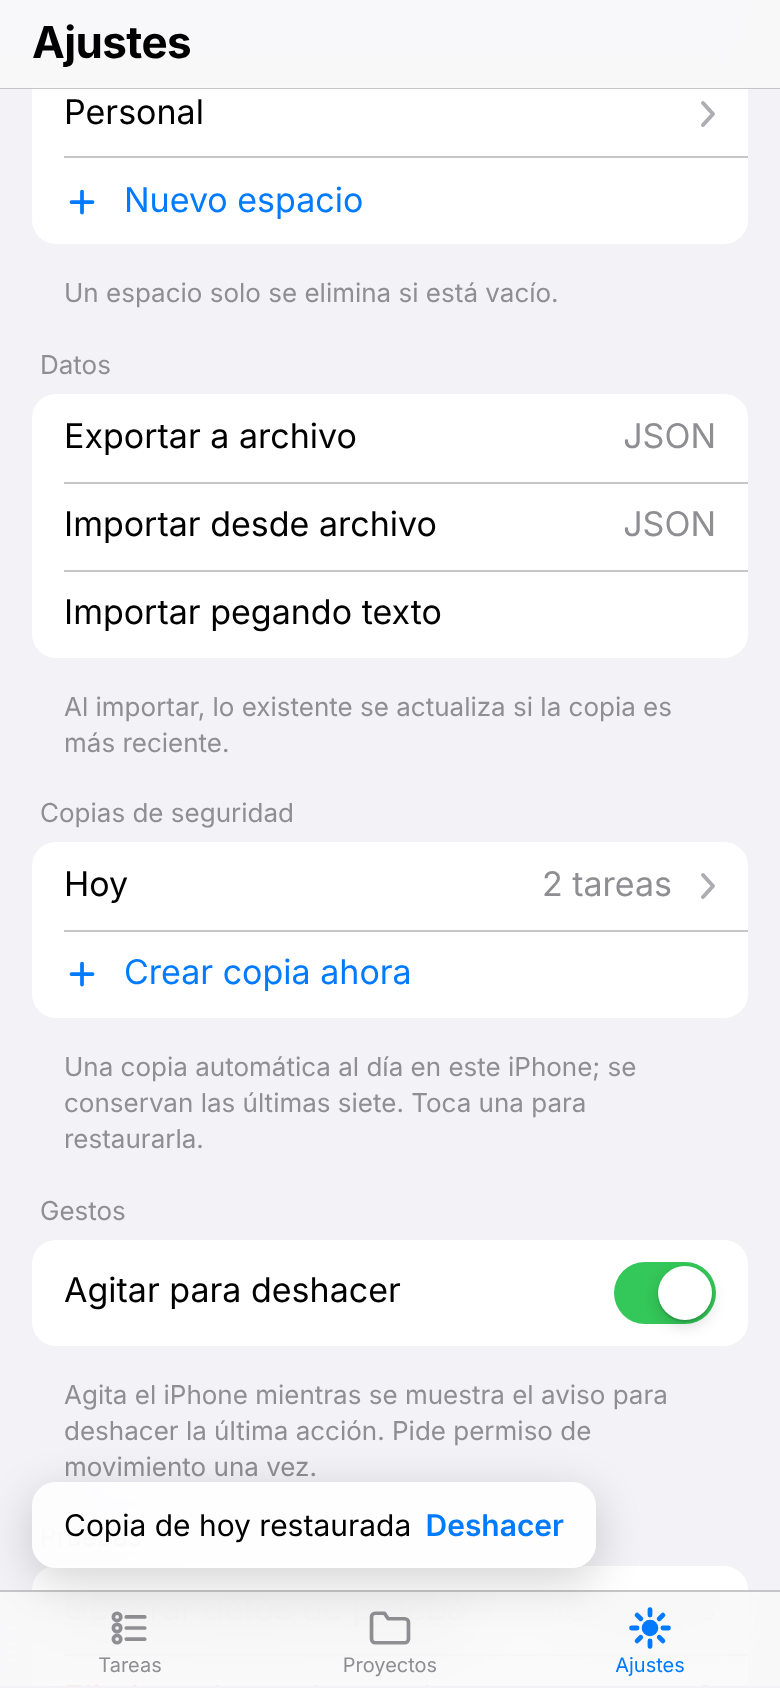
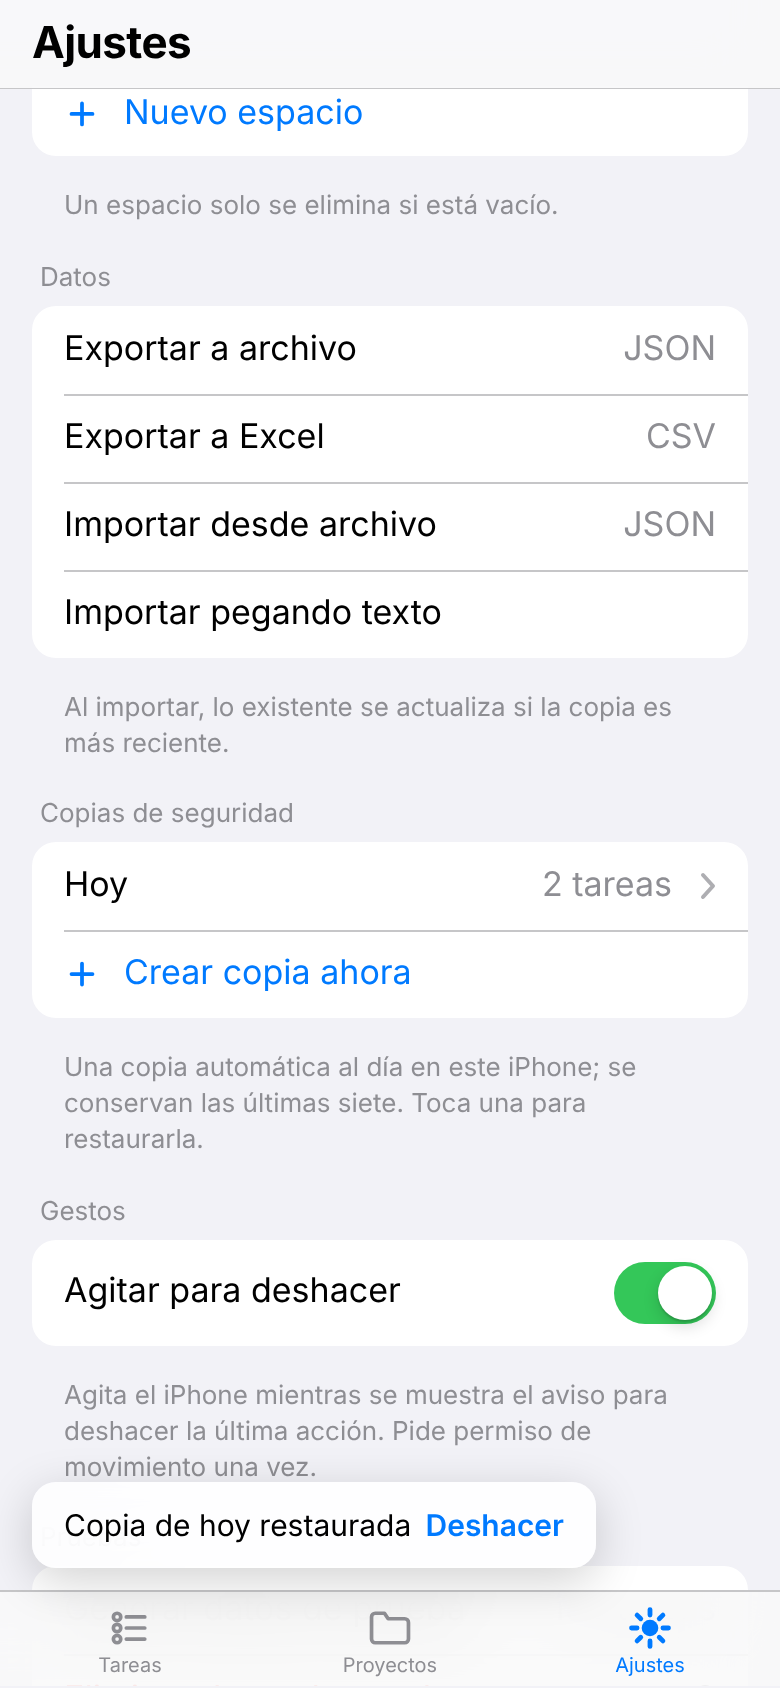
Project filter chips, close the day, plan undated tasks and CSV export
Claude-Session: https://claude.ai/code/session_013DPb63Skv8hBDWtuNgygHP

diff --git a/index.html b/index.html
@@ -201,6 +201,14 @@ input,textarea,select{font-size:max(16px,1rem);} /* under 16px Safari zooms on f
 .switch.on{background:var(--green);}
 .switch.on::after{transform:translateX(20px);}
 .seg.mini{margin:-4px 0 12px;padding:2px;}
+.pchips{display:flex;gap:8px;overflow-x:auto;margin:-4px -16px 12px;padding:0 16px 2px;scrollbar-width:none;}
+.pchips::-webkit-scrollbar{display:none;}
+.pchips .chip{height:30px;font-size:0.824rem;}
+.pchips .chip .dot{width:8px;height:8px;border-radius:50%;}
+.pchips .chip.on{color:#fff;}
+.plan-title{font-size:1.06rem;font-weight:600;text-align:center;margin:2px 0 10px;line-height:1.3;}
+.closeday{display:flex;align-items:center;justify-content:center;gap:8px;width:100%;margin-top:10px;padding:10px 0 2px;border-top:.5px solid var(--sep);color:var(--blue);font-weight:600;font-size:0.882rem;}
+.closeday svg{width:16px;height:16px;}
 .seg.mini button{height:24px;font-size:0.706rem;}
 .selbox{flex:none;width:22px;height:22px;border-radius:50%;border:1.5px solid var(--ink3);display:flex;align-items:center;justify-content:center;transition:background .15s,border-color .15s;}
 .selbox svg{width:12px;height:12px;color:#fff;opacity:0;}
@@ -325,7 +333,7 @@ input,textarea,select{font-size:max(16px,1rem);} /* under 16px Safari zooms on f
 
 <script>
 'use strict';
-const APP_VERSION = '0.11.0';
+const APP_VERSION = '0.12.0';
 let pendingSW = null; // service worker installed and waiting to take over
 
 /* ---------- Log: errors and app events, kept in localStorage for copy-and-paste debugging ---------- */
@@ -466,7 +474,7 @@ function doneList(projectId){
 }
 
 /* ---------- UI state ---------- */
-const UI = { tab:'tareas', query:'', stack:[], scroll:{}, sumFilter:null, summaryFirst:false, searchDone:false, select:null };
+const UI = { tab:'tareas', query:'', stack:[], scroll:{}, sumFilter:null, summaryFirst:false, searchDone:false, select:null, projFilter:null };
 
 /* ---------- Toast with undo ---------- */
 let toastTimer=null, undoFn=null;
@@ -608,6 +616,7 @@ function summaryHTML(){
   const soon = spaceTasks().filter(x=>x.status==='pending'&&x.reminder).map(x=>({x,d:new Date(x.reminder).getTime()-Date.now()})).filter(o=>o.d>-5*6e4&&o.d<2*36e5).sort((a,b)=>a.d-b.d)[0];
   return '<section class="summary'+(summaryCollapsed(hoy.length)?' collapsed':'')+'"><div class="summary-head"><h3>Resumen del día</h3><button data-act="toggleSummary" aria-label="Plegar">'+I.chevD+'</button></div>'+
    '<div class="summary-body"><div class="nums"><button class="num" data-sum="all"><b>'+deHoy+'</b><span>para hoy</span></button><button class="num'+(carried?' orange':'')+(UI.sumFilter==='carried'?' on':'')+'" data-sum="carried"><b>'+carried+'</b><span>aplazadas</span></button><button class="num'+(prio?' red':'')+(UI.sumFilter==='high'?' on':'')+'" data-sum="high"><b>'+prio+'</b><span>prioritarias</span></button></div>'+
+   (hoy.length&&new Date().getHours()>=18?'<button class="closeday" data-act="closeDay">'+I.cal+'<span>Pasar lo pendiente a mañana ('+hoy.length+')</span></button>':'')+
    (!hoy.length&&doneToday?'<div class="alldone">'+I.check+'<span>Todo hecho por hoy: '+doneToday+(doneToday===1?' tarea completada':' tareas completadas')+'</span></div>':'')+
    ((first.length||soon)?'<div class="first">'+(first.length?'<h4>Lo primero</h4>'+first.map(x=>rowHTML(x,{simple:true})).join(''):'')+
    (soon?'<div class="soon"'+(first.length?'':' style="border-top:0;padding-top:0"')+'>'+I.bell+'<span>Recordatorio a las '+fmtTime(soon.x.reminder)+': '+esc(soon.x.title)+'</span></div>':'')+'</div>':'')+'</div></section>';
@@ -619,6 +628,7 @@ function listHTML(filter, projectId){
   let list = pendingFor(filter, projectId, UI.query);
   const root = projectId===undefined;
   if(root && filter==='hoy' && !UI.query && UI.sumFilter) list = list.filter(x=> UI.sumFilter==='carried' ? x.carried : x.priority==='high');
+  if(root && !UI.query && UI.projFilter!==null) list = list.filter(x=> UI.projFilter==='none' ? !x.projectId : x.projectId===UI.projFilter);
   const done = doneList(projectId);
   const addBtn = '<button class="btn-link" data-act="add"'+(projectId!==undefined?' data-project="'+(projectId||'')+'"':'')+'>Añadir tarea</button>';
   let h='';
@@ -626,6 +636,7 @@ function listHTML(filter, projectId){
     let title, sub, acts;
     if(UI.query){ title='Sin resultados'; sub='Prueba con otra palabra'; acts='<button class="btn-link" data-act="clearSearch">Borrar búsqueda</button>'; }
     else if(root && filter==='hoy' && UI.sumFilter){ title=UI.sumFilter==='carried'?'Sin aplazadas':'Sin prioritarias'; sub='Hoy no hay ninguna'; acts='<button class="btn-link" data-sum="all">Quitar filtro</button>'; }
+    else if(root && UI.projFilter!==null){ const pf=UI.projFilter==='none'?null:proj(UI.projFilter); title='Nada '+(pf?'de '+esc(pf.name):'sin proyecto'); sub=filter==='hoy'?'Hoy no hay ninguna':'No hay pendientes'; acts='<button class="btn-link" data-pf="">Quitar filtro</button>'; }
     else if(filter==='hoy'){ title='Nada para hoy'; sub='Nada pendiente con fecha de hoy'; acts='<button class="btn-link" data-filter="todas">Ver todas</button>'+addBtn; }
     else { title='Sin tareas pendientes'; sub='Toca + o añade una desde aquí'; acts=addBtn; }
     h += '<div class="empty">'+I.inbox+'<b>'+title+'</b>'+sub+'<div class="acts">'+acts+'</div></div>';
@@ -636,7 +647,7 @@ function listHTML(filter, projectId){
     ps.forEach(p=>{ if(by[p.id]) h += '<div class="group-title"><span class="dot" style="display:inline-block;width:8px;height:8px;border-radius:50%;background:'+p.color+';margin-right:6px;vertical-align:1px"></span>'+esc(p.name)+' <span style="color:var(--ink3)">'+by[p.id].length+'</span></div><div class="group">'+by[p.id].map(x=>rowHTML(x)).join('')+'</div>'; });
     if(by.none) h += '<div class="group-title">Sin proyecto <span style="color:var(--ink3)">'+by.none.length+'</span></div><div class="group">'+by.none.map(x=>rowHTML(x)).join('')+'</div>'; }
   else if(filter==='todas'){ const t=todayStr(); const by={}; list.forEach(x=>{ (by[dateBucket(x,t)]=by[dateBucket(x,t)]||[]).push(x); });
-    BUCKETS.forEach(([k,label])=>{ if(by[k]) h += '<div class="group-title">'+label+'</div><div class="group">'+by[k].map(x=>rowHTML(x)).join('')+'</div>'; }); }
+    BUCKETS.forEach(([k,label])=>{ if(by[k]) h += '<div class="group-title" style="display:flex;justify-content:space-between;align-items:center"><span>'+label+'</span>'+(k==='none'&&root&&!UI.select?'<button class="btn-link" data-act="plan" style="font-size:0.765rem;font-weight:600">Planificar ('+by[k].length+')</button>':'')+'</div><div class="group">'+by[k].map(x=>rowHTML(x)).join('')+'</div>'; }); }
   else if(filter==='hoy' && root && list.some(x=>x.carried) && list.some(x=>!x.carried)){ const c=list.filter(x=>x.carried), d=list.filter(x=>!x.carried); h += '<div class="group-title">Aplazadas</div><div class="group">'+c.map(x=>rowHTML(x)).join('')+'</div><div class="group-title">Hoy</div><div class="group">'+d.map(x=>rowHTML(x)).join('')+'</div>'; }
   else h += '<div class="group">'+list.map(x=>rowHTML(x)).join('')+'</div>';
   if(root && filter==='hoy' && !UI.query && !UI.sumFilter){ const tm=pendingFor('todas').filter(x=>x.date===addDays(todayStr(),1)).length; if(tm) h += '<button class="preview" data-filter="todas"><span>Mañana: '+tm+(tm===1?' tarea':' tareas')+'</span>'+I.chev+'</button>'; }
@@ -655,6 +666,7 @@ function viewTareas(){
    '<div class="scroll">'+(f==='hoy'&&!UI.query?summaryHTML():'')+
    '<div class="searchbar"><div class="search">'+I.search+'<input type="search" placeholder="Buscar" value="'+esc(UI.query)+'" data-role="search" autocomplete="off"></div>'+(UI.query?'<button class="cancel" data-act="clearSearch">Cancelar</button>':'')+'</div>'+
    (UI.query?'':'<div class="seg"><button data-filter="hoy" class="'+(f==='hoy'?'on':'')+'">Hoy<span class="n">'+nHoy+'</span></button><button data-filter="todas" class="'+(f==='todas'?'on':'')+'">Todas<span class="n">'+nTodas+'</span></button></div>')+
+   (!UI.query&&activeProjects().length?'<div class="pchips">'+activeProjects().map(p=>'<button class="chip'+(UI.projFilter===p.id?' on':'')+'" data-pf="'+p.id+'"'+(UI.projFilter===p.id?' style="background:'+p.color+'"':'')+'><span class="dot" style="background:'+(UI.projFilter===p.id?'#fff':p.color)+'"></span>'+esc(p.name)+'</button>').join('')+'<button class="chip'+(UI.projFilter==='none'?' on':'')+'" data-pf="none"><span class="dot" style="background:'+(UI.projFilter==='none'?'#fff':'var(--ink3)')+'"></span>Sin proyecto</button></div>':'')+
    (!UI.query&&f==='todas'&&nTodas?'<div class="seg mini"><button data-group="date" class="'+(DB.settings.allGroup!=='project'?'on':'')+'">Por fecha</button><button data-group="project" class="'+(DB.settings.allGroup==='project'?'on':'')+'">Por proyecto</button></div>':'')+
    listHTML(UI.query?'todas':f)+'</div>'+
    '<button class="fab" data-act="add" aria-label="Añadir tarea">'+I.plus+'</button>';
@@ -688,7 +700,7 @@ function viewAjustes(){
    '<div class="footnote">Los datos viven en este iPhone hasta activar la sincronización.</div>'+
    '<div class="group-title">Espacios</div><div class="group">'+DB.spaces.slice().sort((a,b)=>a.order-b.order).map(sp=>'<button class="cell" data-edit-space="'+sp.id+'"><span class="lbl">'+esc(sp.name)+'</span>'+(sp.id===space().id?'<span class="val">Activo</span>':'')+I.chev.replace('<svg','<svg class="chev"')+'</button>').join('')+'<button class="cell link" data-act="newSpace">'+I.plus.replace('<svg','<svg style="width:18px;height:18px"')+'<span class="lbl">Nuevo espacio</span></button></div>'+
    '<div class="footnote">Un espacio solo se elimina si está vacío.</div>'+
-   '<div class="group-title">Datos</div><div class="group"><button class="cell" data-act="exportFile"><span class="lbl">Exportar a archivo</span><span class="val">JSON</span></button><button class="cell" data-act="importFile"><span class="lbl">Importar desde archivo</span><span class="val">JSON</span></button><button class="cell" data-act="import"><span class="lbl">Importar pegando texto</span></button></div>'+
+   '<div class="group-title">Datos</div><div class="group"><button class="cell" data-act="exportFile"><span class="lbl">Exportar a archivo</span><span class="val">JSON</span></button><button class="cell" data-act="exportCSV"><span class="lbl">Exportar a Excel</span><span class="val">CSV</span></button><button class="cell" data-act="importFile"><span class="lbl">Importar desde archivo</span><span class="val">JSON</span></button><button class="cell" data-act="import"><span class="lbl">Importar pegando texto</span></button></div>'+
    '<div class="footnote">Al importar, lo existente se actualiza si la copia es más reciente.</div>'+
    '<div class="group-title">Copias de seguridad</div><div class="group">'+(BACKUPS.length?BACKUPS.map(b=>'<button class="cell" data-restore="'+b.date+'"><span class="lbl">'+fmtDate(b.date)+(b.date===todayStr()?'':'')+'</span><span class="val">'+b.tasks+' tareas</span>'+I.chev.replace('<svg','<svg class="chev"')+'</button>').join(''):'<div class="cell"><span class="lbl" style="color:var(--ink2)">Todavía ninguna</span></div>')+'<button class="cell link" data-act="backupNow">'+I.plus.replace('<svg','<svg style="width:18px;height:18px"')+'<span class="lbl">Crear copia ahora</span></button></div>'+
    '<div class="footnote">Una copia automática al día en este iPhone; se conservan las últimas siete. Toca una para restaurarla.</div>'+
@@ -750,6 +762,7 @@ function onClick(e){
   const rb=e.target.closest('[data-restore]'); if(rb){ restoreBackup(rb.dataset.restore); return; }
   const ua=e.target.closest('[data-unarchive]'); if(ua){ const p=proj(ua.dataset.unarchive); p.archived=false; save(); render(); return; }
   const gb=e.target.closest('[data-group]'); if(gb){ DB.settings.allGroup=gb.dataset.group; save(); render(); return; }
+  const pf=e.target.closest('[data-pf]'); if(pf){ const v=pf.dataset.pf; UI.projFilter=(v===''||UI.projFilter===v)?null:v; haptic(4); render(); return; }
   if(UI.select){ const row=e.target.closest('.row'); if(row && !row.closest('.first')){ toggleSelected(row); return; } }
   const act=e.target.closest('[data-act]'); if(!act) { const row=e.target.closest('.row'); if(row && !row.closest('.first')) { if(row.dataset.open==='1'){ closeRow(row); return; } openDetail(row.dataset.id); } return; }
   const row=act.closest('.row'); const a=act.dataset.act;
@@ -760,6 +773,9 @@ function onClick(e){
     case 'delete': if(row){ closeRow(row); confirmDelete(row.dataset.id); } else if(detailId){ confirmDelete(detailId, ()=>pop()); } break;
     case 'clearSearch': UI.query=''; UI.searchDone=false; render(); break;
     case 'selDone': endSelect(); break;
+    case 'closeDay': closeDaySheet(); break;
+    case 'plan': planStart(); break;
+    case 'exportCSV': exportCSV(); break;
     case 'selAll': selectAllVisible(); break;
     case 'bulkComplete': bulkComplete(); break;
     case 'bulkPostpone': bulkPostponeSheet(); break;
@@ -769,7 +785,7 @@ function onClick(e){
     case 'toggleSummary': DB.settings.summaryState = summaryCollapsed(pendingFor('hoy').length)?'open':'closed'; UI.summaryFirst=false; save(); render(); break;
     case 'toggleDone': DB.settings.doneOpen=!DB.settings.doneOpen; save(); render(); break;
     case 'add': addSheet(act.dataset.project||null); break;
-    case 'spaceMenu': actionSheet('Espacio', DB.spaces.slice().sort((a,b)=>a.order-b.order).map(s=>({label:s.name+(s.id===space().id?'  ✓':''), fn:()=>{ DB.settings.activeSpace=s.id; save(); UI.query=''; UI.sumFilter=null; render(); }})).concat([{label:'Nuevo espacio', fn:()=>spaceSheet(null)}])); break;
+    case 'spaceMenu': actionSheet('Espacio', DB.spaces.slice().sort((a,b)=>a.order-b.order).map(s=>({label:s.name+(s.id===space().id?'  ✓':''), fn:()=>{ DB.settings.activeSpace=s.id; save(); UI.query=''; UI.sumFilter=null; UI.projFilter=null; render(); }})).concat([{label:'Nuevo espacio', fn:()=>spaceSheet(null)}])); break;
     case 'back': pop(); break;
     case 'newProject': projectSheet(null); break;
     case 'newSpace': spaceSheet(null); break;
@@ -892,6 +908,10 @@ function bulkPostponeSheet(){ if(!UI.select||!UI.select.ids.size) return; const 
 function bulkMoveSheet(){ if(!UI.select||!UI.select.ids.size) return; const ps=activeProjects(); const n=UI.select.ids.size;
   actionSheet('Mover '+n+(n===1?' tarea':' tareas'), [{label:'Sin proyecto', fn:()=>bulkMove(null)}].concat(ps.map(p=>({label:p.name, fn:()=>bulkMove(p.id)})))); }
 function bulkMove(projectId){ const xs=selectedTasks(); if(!xs.length) return; const prev=xs.map(x=>({id:x.id, projectId:x.projectId})); xs.forEach(x=>updTask(x.id,{projectId})); const p=projectId?proj(projectId):null; endSelect(); toast(xs.length+(xs.length===1?' tarea movida a ':' tareas movidas a ')+(p?p.name:'Sin proyecto'), ()=>prev.forEach(q=>updTask(q.id,{projectId:q.projectId}))); }
+function rescheduleMany(xs, date, label){ if(!xs.length) return; const prev=xs.map(x=>({id:x.id, date:x.date, carried:x.carried})); xs.forEach(x=>updTask(x.id,{date})); renderAnimated(); haptic(8); log('info','Aplazadas en bloque: '+xs.length+' a '+date); toast(xs.length+(xs.length===1?' tarea pasada a ':' tareas pasadas a ')+label, ()=>prev.forEach(p=>updTask(p.id,{date:p.date, carried:p.carried}))); }
+function closeDaySheet(){ const hoy=pendingFor('hoy'); if(!hoy.length) return; const high=hoy.filter(x=>x.priority==='high'), rest=hoy.filter(x=>x.priority!=='high'); const tm=addDays(todayStr(),1);
+  const items=[{label:'Todas ('+hoy.length+')', fn:()=>rescheduleMany(hoy, tm, 'mañana')}]; if(high.length&&rest.length) items.push({label:'Solo las no prioritarias ('+rest.length+')', fn:()=>rescheduleMany(rest, tm, 'mañana')});
+  actionSheet('Pasar lo pendiente a mañana', items); }
 function rowMenu(id){ const x=task(id); if(!x) return; const pl={high:'alta',mid:'media',none:'ninguna'}[x.priority];
   actionSheet(x.title, [
     {label:'Prioridad: '+pl, fn:()=>priorityMenu(id)},
@@ -1005,6 +1025,19 @@ function reminderSheet(id){ const x=task(id); const t=todayStr(); const pad=n=>S
       const c=e.target.closest('[data-r]'); if(c){ updTask(id,{reminder:c.dataset.r||null}); closeSheet(); render(); return; }
       if(e.target.closest('[data-x=ok]')){ const [hh,mi]=(inp.value||time).split(':').map(Number); const dt=new Date(day+'T00:00:00'); dt.setHours(hh||0, mi||0, 0, 0); updTask(id,{reminder:dt.toISOString()}); closeSheet(); render(); } }; }); }
 
+/* Plan the undated tasks one by one */
+function planStart(){ let ids=pendingFor('todas').filter(x=>!x.date); if(UI.projFilter!==null) ids=ids.filter(x=> UI.projFilter==='none' ? !x.projectId : x.projectId===UI.projFilter); ids=ids.map(x=>x.id); if(!ids.length) return; planStep(ids, 0, {done:0, skipped:0}); }
+function planStep(ids, i, st){
+  if(i>=ids.length){ closeSheet(); renderAnimated(); toast(st.done+(st.done===1?' planificada':' planificadas')+(st.skipped?', '+st.skipped+(st.skipped===1?' saltada':' saltadas'):'')); log('info','Planificar sin fecha', st); return; }
+  const x=task(ids[i]); if(!x){ planStep(ids, i+1, st); return; }
+  const t=todayStr(); const dow=new Date(t+'T00:00:00').getDay(); const chips=[[t,'Hoy'],[addDays(t,1),'Mañana']]; if(dow>=1&&dow<=4) chips.push([nextWeekday(5,true),'Este viernes']); chips.push([nextWeekday(1,true),'Próxima semana']);
+  let ym=t.slice(0,7); const p=x.projectId?proj(x.projectId):null;
+  openSheet('<h2>Planificar</h2><div class="hint" style="margin-top:-6px">'+(i+1)+' de '+ids.length+(p?' · '+esc(p.name):'')+'</div><div class="plan-title">'+esc(x.title)+'</div><div class="chips" style="margin-top:0">'+chips.map(c=>'<button class="chip" data-d="'+c[0]+'">'+c[1]+'</button>').join('')+'</div><div id="calwrap">'+calendarHTML(ym, null)+'</div><div class="sheet-actions"><button class="btn" data-x="skip">Saltar</button><button class="btn" data-x="end">Terminar</button></div>', s=>{
+    s.onclick=e=>{ const nav=e.target.closest('[data-cal]'); if(nav){ ym=shiftMonth(ym,+nav.dataset.cal); $('#calwrap',s).innerHTML=calendarHTML(ym, null); return; }
+      const d=e.target.closest('[data-d]'); if(d){ updTask(x.id,{date:d.dataset.d}); st.done++; haptic(6); planStep(ids, i+1, st); return; }
+      const b=e.target.closest('[data-x]'); if(!b) return; if(b.dataset.x==='skip'){ st.skipped++; planStep(ids, i+1, st); } else { st.skipped+=ids.length-i; planStep(ids, ids.length, st); } }; });
+}
+
 /* Voice note.
    Primary route: the iOS keyboard dictation, typing into a focused textarea.
    SpeechRecognition is only offered in a browser tab where it is known to work;
@@ -1066,6 +1099,19 @@ function restoreBackup(date){ const b=BACKUPS.find(x=>x.date===date); if(!b) ret
 /* Export and import */
 function exportData(){ return { app:'tareas', version:APP_VERSION, exported:new Date().toISOString(), spaces:DB.spaces, projects:DB.projects, tasks:DB.tasks, voiceNotes:DB.voiceNotes }; }
 function exportJSON(){ const t=JSON.stringify(exportData(),null,2); if(navigator.share){ navigator.share({title:'Tareas (copia)', text:t}).catch(()=>copyText(t,'Copia JSON en el portapapeles')); } else copyText(t,'Copia JSON en el portapapeles'); }
+// CSV for Excel in Spanish locales: semicolon separated, UTF-8 with BOM, one row per task
+function csvText(){ const q=v=>'"'+String(v==null?'':v).replace(/"/g,'""').replace(/\r?\n/g,' ')+'"'; const sp=Object.fromEntries(DB.spaces.map(s=>[s.id,s.name])); const pr={high:'Alta',mid:'Media',none:''};
+  const head=['Espacio','Proyecto','Título','Fecha','Prioridad','Estado','Completada','Recordatorio','Aplazada','Notas','Notas de voz','Creada'];
+  const rows=DB.tasks.slice().sort((a,b)=>(a.spaceId+(a.date||'9999')+a.created)<(b.spaceId+(b.date||'9999')+b.created)?-1:1).map(x=>{ const p=x.projectId?proj(x.projectId):null; const vn=DB.voiceNotes.filter(v=>v.taskId===x.id).map(v=>v.text).join(' | ');
+    return [sp[x.spaceId]||'', p?p.name:'', x.title, x.date||'', pr[x.priority]||'', x.status==='done'?'Hecha':'Pendiente', x.completed?localDay(x.completed)+' '+fmtTime(x.completed):'', x.reminder?localDay(x.reminder)+' '+fmtTime(x.reminder):'', x.carried?'Sí':'', x.notes||'', vn, localDay(x.created)].map(q).join(';'); });
+  return ''+head.map(q).join(';')+'\r\n'+rows.join('\r\n')+'\r\n'; }
+async function exportCSV(){
+  const name='tareas-'+todayStr()+'.csv'; const blob=new Blob([csvText()],{type:'text/csv;charset=utf-8'});
+  try{ const file=new File([blob],name,{type:'text/csv'}); if(navigator.canShare&&navigator.canShare({files:[file]})){ await navigator.share({files:[file],title:'Tareas'}); log('info','Exportado CSV (compartir)',name); return; } }
+  catch(e){ if(e&&e.name==='AbortError') return; log('warn','Compartir CSV no disponible: '+(e&&e.message||e)); }
+  try{ const a=document.createElement('a'); a.href=URL.createObjectURL(blob); a.download=name; document.body.appendChild(a); a.click(); setTimeout(()=>{ URL.revokeObjectURL(a.href); a.remove(); },1500); toast('Archivo '+name+' generado'); log('info','Exportado CSV (descarga)',name); }
+  catch(e){ log('error','Exportar CSV falló: '+(e&&e.message||e)); copyText(csvText(),'CSV copiado al portapapeles'); }
+}
 async function exportFile(){
   const name='tareas-'+todayStr()+'.json'; const text=JSON.stringify(exportData(),null,2); const blob=new Blob([text],{type:'application/json'});
   try{ const file=new File([blob],name,{type:'application/json'}); if(navigator.canShare&&navigator.canShare({files:[file]})){ await navigator.share({files:[file],title:'Tareas'}); log('info','Exportado a archivo (compartir)',name); return; } }

diff --git a/sw.js b/sw.js
@@ -1,6 +1,6 @@
 /* Service worker: app shell cache and update notice.
    Bump CACHE on every release so installed devices pick up the new version. */
-const CACHE = 'tareas-v0.11.0';
+const CACHE = 'tareas-v0.12.0';
 const SHELL = ['./', './index.html', './manifest.webmanifest', './icons/icon-192.png', './icons/icon-512.png', './icons/apple-touch-icon.png'];
 
 self.addEventListener('install', e => {

diff --git a/CLAUDE.md b/CLAUDE.md
@@ -89,7 +89,8 @@ Cambios acordados con Enric sobre el diseño de abajo. Mandan sobre el texto del
 11. **Lote 5 (v0.8.0).** Icono nuevo; proyectos con icono de color; nombres de día completos; indicadores de notas y voz en la fila; háptico por interruptor nativo (`#hap`); mover a otro espacio (`moveToSpaceSheet`); enlaces y teléfonos tocables en notas (`extractLinks`, `linkify`); duplicar (`duplicateTask`); Añadir y abrir; búsqueda con completadas bajo demanda (`UI.searchDone`); resumen abierto la primera vez del día (`summaryDay`); Deshacer en prioridad y proyecto (`setPriority`, `moveToProject`).
 12. **Lote 6 (v0.9.0).** Copias locales diarias en IndexedDB (`BK`, base `tareas-backups`, siete copias, restaurar desde Ajustes); título del detalle en `textarea` que crece; atajos de hora en Recordatorio; "N hoy" en Completadas y "Todo hecho por hoy"; vista previa "Mañana: N tareas"; hoja de bienvenida (`tipsSeen`); entrada `?add=texto` para el Atajo de iOS; agitar para deshacer (`shakeUndo`, DeviceMotion con permiso).
 13. **v0.11.0.** Calendario propio (`calendarHTML`) en Fecha y Recordatorio; Completadas con enlace y agrupadas por día; selección múltiple (`UI.select`, `startSelect`, barra `#selbar` con `bulkComplete`, `bulkPostponeSheet`, `bulkMoveSheet`, `bulkDelete`); Todas agrupada por fecha o por proyecto (`allGroup`).
-14. **Foco en hojas.** Los campos de las hojas se enfocan de forma síncrona dentro del toque; con `setTimeout` iOS no abre el teclado.
+14. **v0.12.0.** Filtro por proyecto en la lista (`UI.projFilter`, chips `.pchips`); "Pasar lo pendiente a mañana" desde las 18:00 (`closeDaySheet`, `rescheduleMany`); planificar las sin fecha una a una (`planStart`, `planStep`); exportar CSV para Excel (`csvText`, `exportCSV`, separador `;`, BOM).
+15. **Foco en hojas.** Los campos de las hojas se enfocan de forma síncrona dentro del toque; con `setTimeout` iOS no abre el teclado.
 
 
 ---

diff --git a/CHANGELOG.md b/CHANGELOG.md
@@ -1,5 +1,12 @@
 # Registro de cambios
 
+## v0.12.0. Filtro por proyecto, cerrar el día, planificar sin fecha y CSV (31 de octubre de 2026)
+
+- Filtro por proyecto: fila de chips bajo el segmento con los proyectos del espacio y "Sin proyecto". Tocar uno filtra Hoy o Todas; volver a tocarlo quita el filtro. Se pierde al cambiar de espacio.
+- Cerrar el día: a partir de las 18:00, si quedan pendientes en Hoy, el resumen ofrece "Pasar lo pendiente a mañana (N)" con la opción de dejar fuera las prioritarias. Con Deshacer.
+- Planificar sin fecha: en Todas, el grupo "Sin fecha" lleva el enlace "Planificar (N)". Recorre las tareas una a una con atajos y calendario, "Saltar" y "Terminar"; al final, "N planificadas, M saltadas". Respeta el filtro por proyecto.
+- Exportar a Excel: en Ajustes, "Exportar a Excel (CSV)" genera un CSV separado por punto y coma con BOM UTF-8 y una fila por tarea (espacio, proyecto, título, fecha, prioridad, estado, completada, recordatorio, aplazada, notas, notas de voz, creada), por la hoja de compartir.
+
 ## v0.11.0. Calendario propio, Completadas por día, selección múltiple y Todas por proyecto (31 de octubre de 2026)
 
 - Fecha: hoja con atajos (Hoy, Mañana, Este viernes, Próxima semana, Sin fecha) y calendario mensual propio, lunes primero, hoy en azul, punto bajo los días con tareas pendientes, navegación por meses. Tocar un día guarda y cierra.
